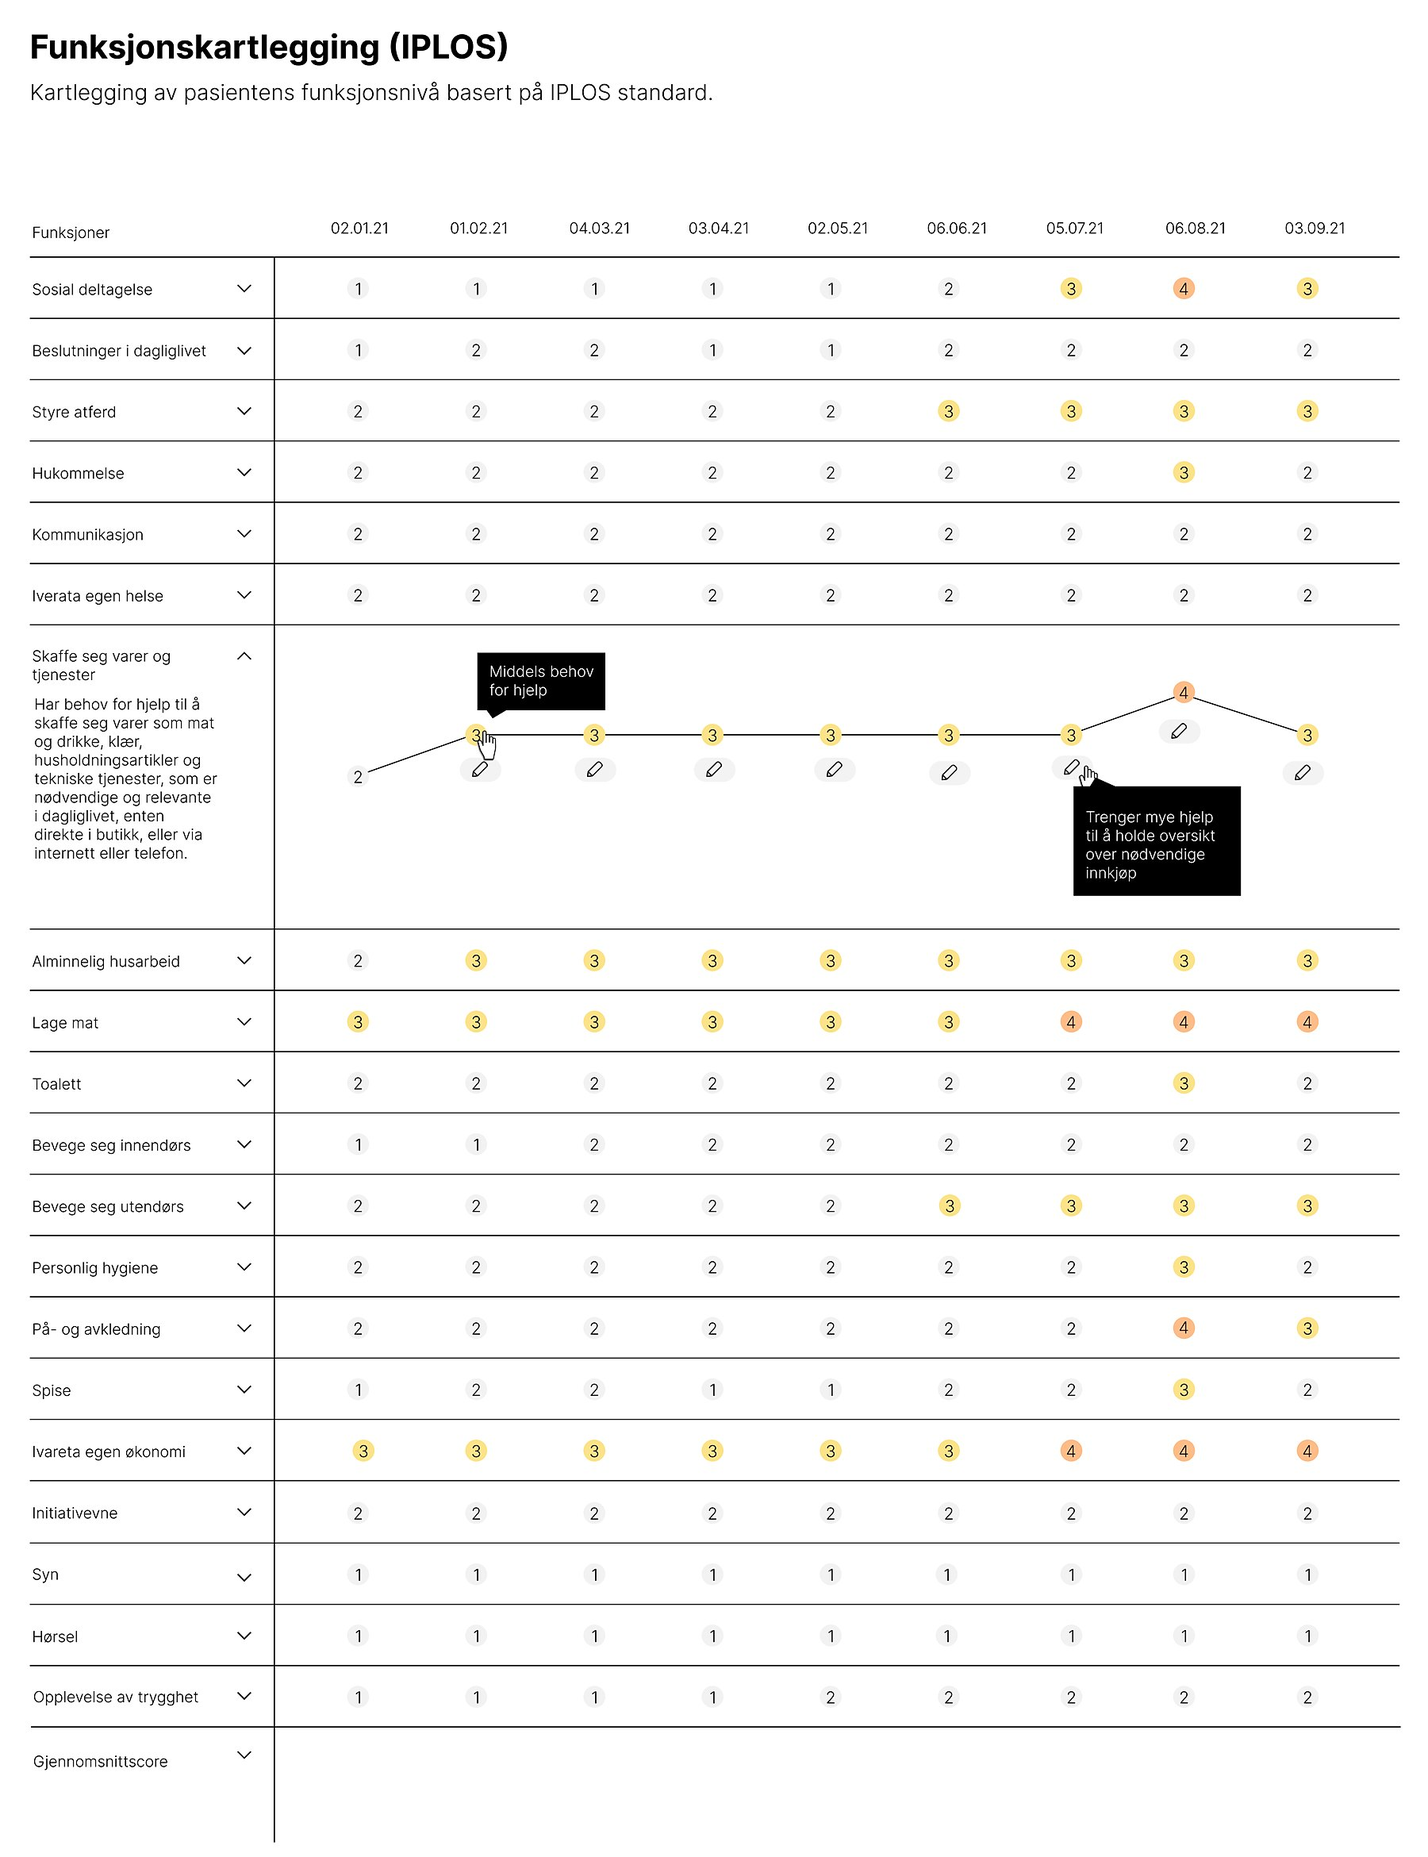
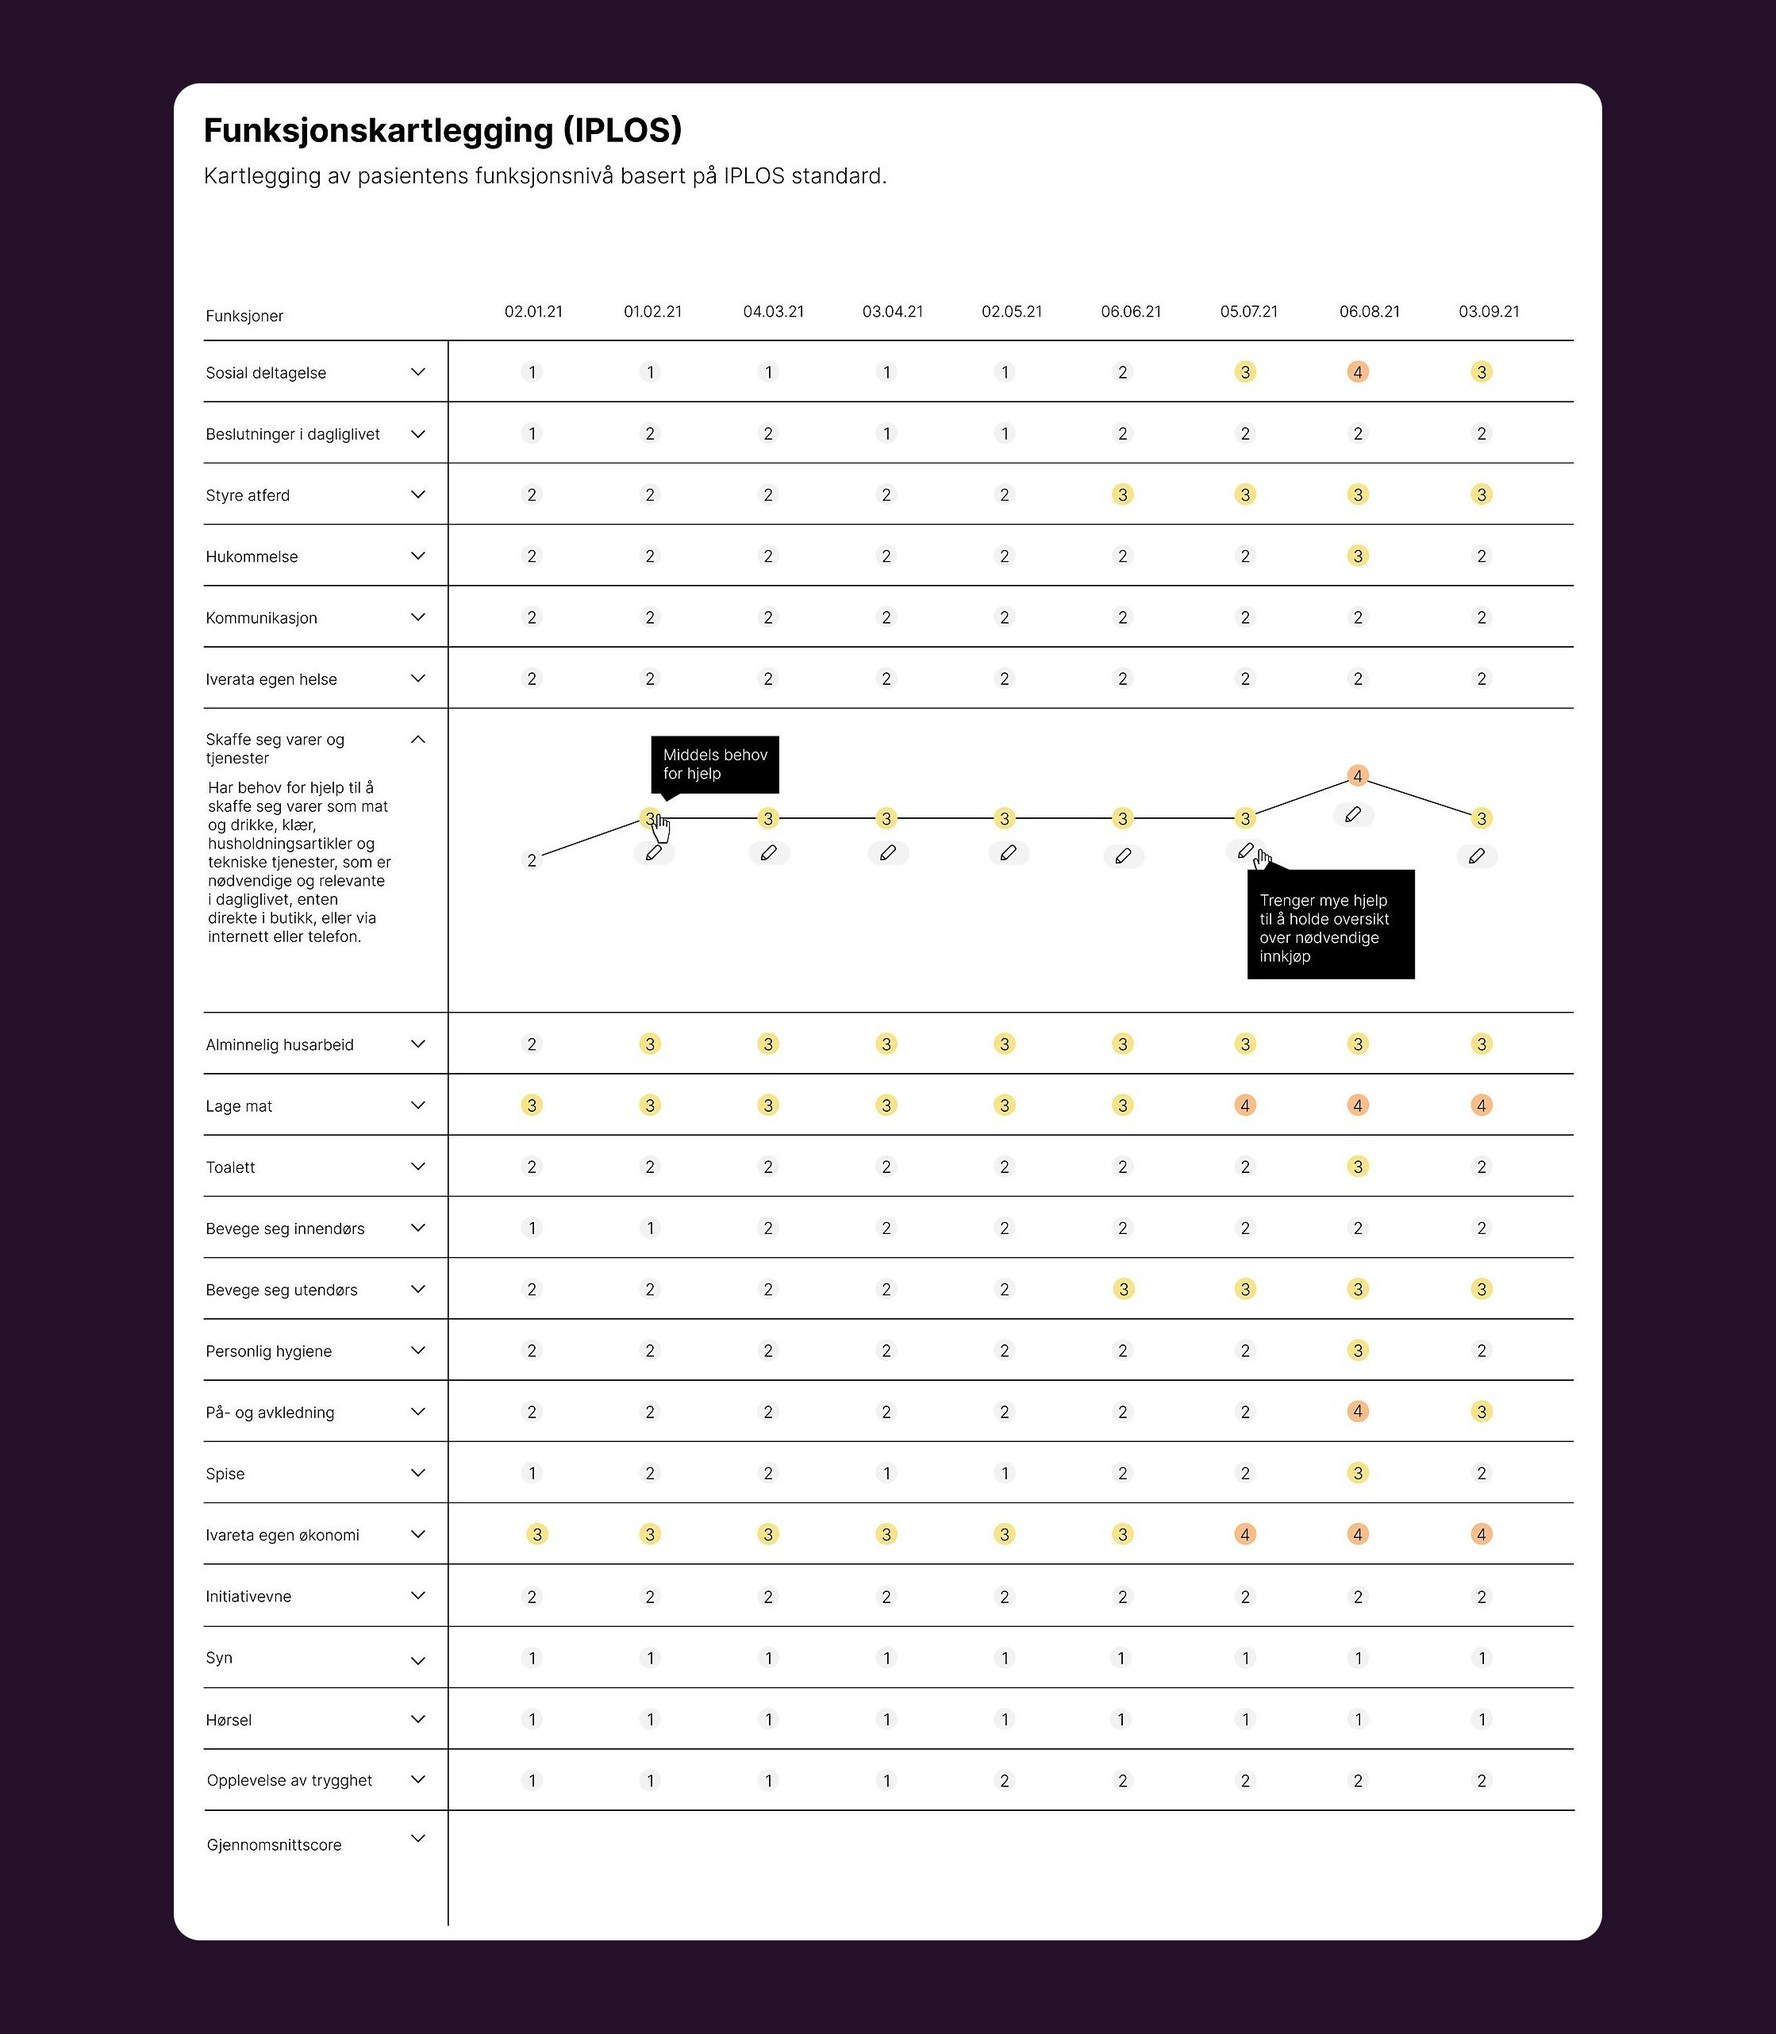
Frame and round the Aidn form and function assessment images (#17)
* Rewrite the Aidn case with workshop, scenario and assessment images

New text from Marthe, and five new images: workshop agenda, two needs
sheets, the patient scenario, location sketches and the function
assessment table. Adds a .prose block for body text between image
sections and a .half layout for a single portrait photo.

Claude-Session: https://claude.ai/code/session_01FprJxn1e4yq7MQ4AsjED5L

* Keep Marthe's original wording for the prototype sentence

Claude-Session: https://claude.ai/code/session_01FprJxn1e4yq7MQ4AsjED5L

* Show the three workshop photos side by side with one caption

Claude-Session: https://claude.ai/code/session_01FprJxn1e4yq7MQ4AsjED5L

* Reorder the Aidn case: patient overview first, then workshops

Claude-Session: https://claude.ai/code/session_01FprJxn1e4yq7MQ4AsjED5L

* Drop the section labels above the last two Aidn images

Claude-Session: https://claude.ai/code/session_01FprJxn1e4yq7MQ4AsjED5L

* Update the third Aidn paragraph

Claude-Session: https://claude.ai/code/session_01FprJxn1e4yq7MQ4AsjED5L

* Group the Aidn workshop, scenario and location images under one heading

Claude-Session: https://claude.ai/code/session_01FprJxn1e4yq7MQ4AsjED5L

* Drop the comma in the Aidn workshop heading

Claude-Session: https://claude.ai/code/session_01FprJxn1e4yq7MQ4AsjED5L

* Frame the Aidn function assessment image in dark purple like the other screenshots

Claude-Session: https://claude.ai/code/session_01FprJxn1e4yq7MQ4AsjED5L
[…]

diff --git a/index.html b/index.html
@@ -202,11 +202,11 @@
     <div class="story"><p>Jeg ble med videre da Aidn fikk flere ansatte og delte arbeidet på ulike team. En av tingene jeg var med på å lage da, var digitale løsninger for pasientkartlegging, for eksempel kartlegging av mål for oppholdet og av pasientens funksjon. Målet var at kartleggingen ble journalført automatisk, med direkte kobling til skjemaet.</p></div>
   </div>
   <section class="part" aria-label="Skjema">
-    <img src="img/aidn-skjema.jpg" alt="Skjema for målsamtale med forslag til svar som kan legges til med ett trykk." loading="lazy">
+    <img src="img/aidn-skjema.jpg?v=2" alt="Skjema for målsamtale med forslag til svar som kan legges til med ett trykk." loading="lazy">
     <p class="cap">Skjema som fungerer uansett hvilken digital enhet du har på jobb. Med forslag til svar går det raskt å fylle ut skjemaer, for eksempel når en sykepleier er i samtale med en pasient.</p>
   </section>
   <section class="part" aria-label="Funksjonskartlegging">
-    <img src="img/aidn-funksjon.jpg" alt="Tabell over pasientens funksjonsnivå etter IPLOS, med score per funksjon for ni datoer. En rad er åpnet og viser utviklingen som en linje over tid." loading="lazy">
+    <img src="img/aidn-funksjon.jpg?v=4" alt="Tabell over pasientens funksjonsnivå etter IPLOS, med score per funksjon for ni datoer. En rad er åpnet og viser utviklingen som en linje over tid." loading="lazy">
     <p class="cap">Konsept for å vise resultater fra funksjonskartlegging over tid.</p>
   </section>
   <nav class="pager" aria-label="Flere prosjekter"><a class="prev" href="#studio"><span class="label">← Forrige</span><span class="t">Impact Startup: Studio</span></a><a class="next" href="#forsikring"><span class="label">Neste prosjekt →</span><span class="t">Forsikringsselskap</span></a></nav>
